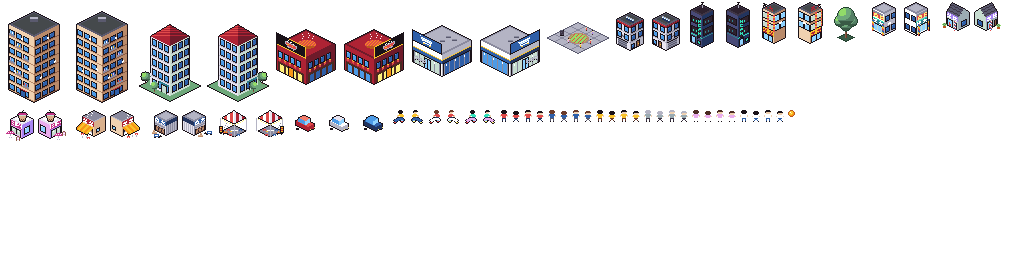
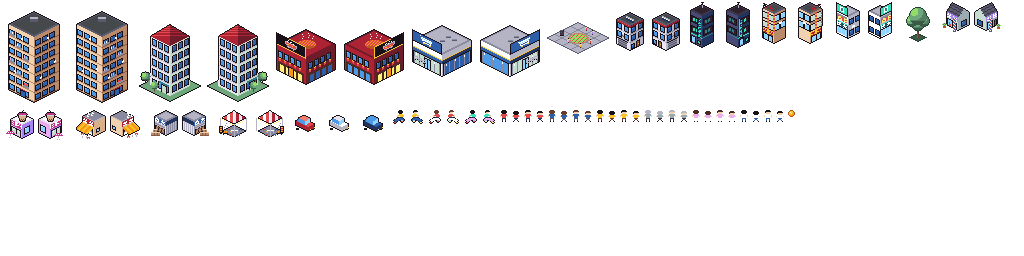
默认缩放改 ×3，店铺细节按真机可读性精简
- 默认档 ×2 → ×3（真机约 1.6pt / 美术像素，与参考相当）
- 去掉小于 3 像素的噪点道具，招牌加大加对比
- ART_SPEC 补最小可读尺寸规则

diff --git a/county-tycoon/assets/scripts/core/WorldConfig.ts b/county-tycoon/assets/scripts/core/WorldConfig.ts
@@ -44,7 +44,7 @@ export const DEFAULT_WORLD_CONFIG: WorldConfig = {
     gridWidth: 40,
     gridHeight: 40,
     zoomLevels: [2, 3, 4],
-    defaultZoomIndex: 0,
+    defaultZoomIndex: 1,
     palette: {
         background: '#2e222f',
         ground: '#547e64',

diff --git a/docs/art/gen/shops.py b/docs/art/gen/shops.py
@@ -138,7 +138,7 @@ def breakfast(F):
     gx, gy = ground_pt(b, F, 10, 4); put_grid(pv, gx, gy, STOOL, STOOL_MAP)
     # 蒸汽从雨棚上冒出来
     sx, sy = wall_pt(b, F, 5, 16)
-    for (dx, dy) in [(0, 0), (1, -2), (0, -3), (1, -5), (4, -1), (5, -3), (4, -4)]:
+    for (dx, dy) in [(0, 0), (1, 0), (0, -1), (1, -2), (2, -2), (1, -3), (0, -4), (1, -4), (4, -1), (5, -1), (4, -2), (5, -3), (6, -3), (5, -4)]:
         pv.put(int(sx) + dx, int(sy) + dy - 1, '纯白')
     finish(cv, 'breakfast', F, pv)
 
@@ -205,11 +205,9 @@ def parcel(F):
     b.rect_on(O, 0, 10, wlen(b, O), 4, '藏青')
     m = F == 'R'
     # 门口：包裹堆 + 电动三轮
-    gx, gy = ground_pt(b, F, 2, 3)
-    put_grid(pv, gx, gy, ['.tt..', '.dd..', 'ttttt', 'ddddd'], {'t': '肤色暗', 'd': '土黄'}, m)
-    gx, gy = ground_pt(b, F, 9, 5)
-    put_grid(pv, gx, gy, ['bbbbb...', 'bWWWb.K.', 'bbbbbKKK', 'KK..KK..'],
-             {'b': '钴蓝', 'W': '纯白', 'K': '近黑'}, m)
+    gx, gy = ground_pt(b, F, 5, 4)
+    put_grid(pv, gx, gy, ['..tttt....', '..dDdd....', '..dDdd....', 'ttttttttt.', 'dddDddDdd.', 'dddDddDdd.', 'DDDDDDDDD.'],
+             {'t': '肤色亮', 'd': '土黄', 'D': '深棕'}, m)
     finish(cv, 'parcel', F, pv)
 
 # ======================= 奶茶店（屋顶大杯子） =======================
@@ -234,8 +232,6 @@ def milk_tea(F):
     gx, gy = ground_pt(b, F, 3, 4)                       # 门口太阳伞小圆桌
     put_grid(pv, gx, gy, ['..PPPPP..', '.PwPwPwP.', 'PPPPPPPPP', '....g....', '....g....', '..wwwww..', '...g.g...'],
              {'P': '玫红', 'w': '纯白', 'g': '银灰'}, m)
-    gx, gy = ground_pt(b, F, 10, 3)                      # A 字菜单板
-    put_grid(pv, gx, gy, ['.KK.', 'KPPK', 'KwwK', 'KPPK', 'K..K'], {'K': '深棕', 'P': '浅粉', 'w': '纯白'}, m)
     finish(cv, 'milk-tea', F, pv)
 
 # ======================= 手机店（玻璃幕墙 + 红横幅 + 气球） =======================
@@ -248,21 +244,16 @@ def phone(F):
     b.rect_on(F, 0, 0, n, 9, '近黑'); b.rect_on(F, 1, 0, n - 2, 8, '天蓝')
     for u in range(1, n - 1, 4): b.rect_on(F, u, 0, 1, 8, '冷白')
     b.rect_on(F, 2, 0, n - 4, 2, '纯白')                # 展示柜台
-    b.rect_on(F, 0, 9, n, 5, '深青'); b.rect_on(F, 0, 13, n, 1, '青')
+    b.rect_on(F, 0, 9, n, 5, '墨青'); b.rect_on(F, 0, 13, n, 1, '青')
     glyphs(b, F, 1, 9, 2, '纯白', 47)
     b.rect_on(F, 1, 15, n - 2, 5, '亮红'); glyphs(b, F, 2, 15, 2, '柠檬黄', 52)   # 促销横幅
     b.rect_on(F, 1, 19, n - 2, 2, '浅灰')
     b.window(O, 2, 3, 3, 4, glass='钴蓝', shine='蓝'); b.window(O, 8, 3, 3, 4, glass='钴蓝', shine='蓝')
     b.window(O, 2, 14, 3, 4, glass='钴蓝', shine='蓝'); b.window(O, 8, 14, 3, 4, glass='钴蓝', shine='蓝')
     b.rect_on(O, 4, 9, 3, 2, '纯白')                     # 空调外机
-    # 门口两根气球柱
-    for u, d in ((1, 1), (n - 2, 1)):
-        gx, gy = ground_pt(b, F, u, d)
-        cols = ['亮红', '明黄', '钴蓝']
-        for k in range(6):
-            c = cols[k % 3]
-            pv.put(gx, gy - 1 - k * 2, c); cv.put(gx + 1, gy - 1 - k * 2, c)
-            pv.put(gx, gy - 2 - k * 2, c); cv.put(gx + 1, gy - 2 - k * 2, cols[(k + 1) % 3])
+    # 屋顶前沿一块大青色灯箱，中间白色手机轮廓
+    b.rect_on(F, 0, H, n, 9, '近黑'); b.rect_on(F, 1, H + 1, n - 2, 7, '青')
+    icon(b, F, (n - 4) // 2, H + 2, ['KKKK', 'KwwK', 'KwwK', 'KwwK', 'KKKK'], {'K': '纯白', 'w': '深青'})
     finish(cv, 'phone-shop', F, pv)
 
 # ======================= 理发店（灰瓦坡顶老房子） =======================
@@ -302,10 +293,11 @@ def barber(F):
     b.rect_on(F, 0, 9, n, 5, '紫'); glyphs(b, F, 1, 9, 2, '纯白', 61)
     b.window(O, 4, 3, 4, 4, glass='钴蓝', shine='蓝')
     m = F == 'R'
-    gx, gy = ground_pt(b, F, n - 2 if F == 'L' else 1, 2)   # 转灯：门面靠前角那头
-    for k in range(10):
-        pv.put(gx, gy - 1 - k, ['亮红', '纯白', '钴蓝'][k % 3]); pv.put(gx + 1, gy - 1 - k, ['纯白', '钴蓝', '亮红'][k % 3])
-    pv.put(gx, gy - 11, '银灰'); pv.put(gx + 1, gy - 11, '银灰')
+    gx, gy = ground_pt(b, F, n - 2 if F == 'L' else 1, 2)   # 转灯：3 宽 13 高
+    for k in range(13):
+        for i in range(3):
+            pv.put(gx - 1 + i, gy - 1 - k, ['亮红', '纯白', '钴蓝'][(k + i) % 3])
+    for i in range(3): pv.put(gx - 1 + i, gy - 14, '银灰'); pv.put(gx - 1 + i, gy, '中灰')
     gx, gy = ground_pt(b, F, 1 if F == 'L' else n - 3, 3)   # 盆栽
     put_grid(pv, gx, gy, ['.lgl.', 'lglgl', '.lgl.', '.ddd.', '.ddd.'], {'l': '亮绿', 'g': '地面绿', 'd': '赭橙'}, m)
     finish(cv, 'barber', F, pv)
@@ -325,7 +317,7 @@ def net_cafe(F):
         for w in (F, O):
             L_ = wlen(b, w)
             b.rect_on(w, 1, v, L_ - 2, 7, '近黑'); b.rect_on(w, 2, v + 1, L_ - 4, 5, '背景紫黑')
-            for u in range(3, L_ - 3, 3): b.rect_on(w, u, v + 2, 1, 2, '青' if w == F else '深青')
+            for u in range(3, L_ - 3, 3): b.rect_on(w, u, v + 2, 2, 3, '青' if w == F else '深青')
     b.rect_on(F, 0, 9, n, 1, '青'); b.rect_on(O, 0, 9, wlen(b, O), 1, '深青')
     # 竖招牌：在门面墙靠前角那一头，往外伸 4 像素
     u = n - 1 if F == 'L' else 0
@@ -333,9 +325,9 @@ def net_cafe(F):
     for v in range(12, 31):
         for k in range(1, 5):
             x, y = wall_pt(b, F, u + .5, v)
-            cv.put(int(x + ox * k), int(round(y + oy * k)), '近黑' if v in (12, 30) or k == 4 else '背景紫黑')
+            cv.put(int(x + ox * k), int(round(y + oy * k)), '近黑' if v in (12, 30) or k == 4 else '青')
     x, y = wall_pt(b, F, u + .5, 29)
-    vglyphs(cv, [(int(x + ox * 2.5) - 1, int(round(y + oy * 2.5)) + 4 * i) for i in range(4)], '青', 71)
+    vglyphs(cv, [(int(x + ox * 2.5) - 1, int(round(y + oy * 2.5)) + 4 * i) for i in range(4)], '藏青', 71)
     # 屋顶：天线 + 空调
     T_ = b.roof_pts()[0]
     for z in range(6): cv.put(int(T_[0]), int(T_[1]) + 3 - z, '银灰')

diff --git a/docs/DECISIONS.md b/docs/DECISIONS.md
@@ -84,7 +84,7 @@
 ## D014 改为等距视角，画面对标同类像素经营游戏（2026-11-13，用户拍板）
 - 起因：用户放了 6 张同类游戏截图到 `reference/`，要求"至少做出类似的东西"。正俯视 16×16 在规格上就到不了那种密度——只看得到屋顶，招牌、门窗、楼层都没地方画。
 - 视角：等距 2:1，菱形地块 32×16。格子坐标 gx 往右下、gy 往左下，(0,0) 是地图最上角。换算全在 `core/IsoMath.ts`，纯函数。
-- 地图 40×40（等距地图的外接矩形永远 2:1，竖屏下 24×40 会上下露底；40×40 在 ×2 时 2560×1280，能上下左右拖）。默认 ×2。
+- 地图 40×40（等距地图的外接矩形永远 2:1，竖屏下 24×40 会上下露底；40×40 在 ×2 时 2560×1280，能上下左右拖）。默认 ×3（2026-11-13 从 ×2 改：换算到真机，×2 时一个美术像素约 1.1pt，比参考游戏的 1.3pt 小，店铺看不清；×3 约 1.6pt）。
 - 建筑图：宽 = (w+h)×16，高随意；图的底边中点对齐占地菱形的最下顶点。宽度不对时代码回退色块并警告。
 - 前后遮挡：每次重画按占地中心的 gx+gy 排序（`IsoMath.depth`）。对互不重叠的 1×1/2×2 混排正确；以后有 3×1 之类的长条再换拓扑排序。
 - 马路不当"建筑"画，进地面层，按四邻自动选 16 种拼接图之一（`buildings.json` 里 `"flat": true`）。地面草地和马路在同一张图集 `ground.png`，1600 格合批成一次绘制。

diff --git a/docs/DEVLOG.md b/docs/DEVLOG.md
@@ -115,4 +115,6 @@
   - 每家一个原型：早餐铺单层敞开 + 斜雨棚 + 塑料凳；烧烤摊条纹帐篷大排档；快递驿站铁皮房半拉卷帘 + 三轮车；奶茶店屋顶立体大杯；手机店玻璃幕墙 + 红横幅 + 气球柱；理发店灰瓦坡顶 + 转灯；网吧三层深色玻璃 + 竖招牌；补习班三层民房 + 红竖幅 + 屋顶铁架字。
   - 两轮修正：道具描黑边成一团黑 → 道具单独一层不描边；3×4 伪字读成 "BAB" → 改 4×4 方块字每块 2 个；`_r` 版远端道具被图边裁掉 → 挪进来。
   - 实测：同一张小县城截图 `docs/art/preview-iso-shops.png`，图集仍是 1024×256，绘制次数不变。
+- **看不清的问题**（用户反馈）：换算到真机后，默认 ×2 时一个美术像素约 1.1pt，比参考游戏小约四分之一。默认档改 ×3。再按真机分辨率截图（CDP 模拟 3 倍像素密度）逐家看：手机店气球、快递三轮车、1 像素转灯是噪点，网吧竖招牌深底深字。改为：手机店屋顶大青色灯箱带手机图标；快递只留一大堆纸箱；转灯 3 宽 13 高；网吧竖招牌亮青底深字、屏幕光加大；奶茶店去掉菜单板；早餐铺蒸汽成团。截图 `docs/art/preview-phone-x3.png`。
+- 测试脚本以后用真机分辨率截图做验收，不再看放大局部。
 

diff --git a/docs/ART_SPEC.md b/docs/ART_SPEC.md
@@ -38,6 +38,8 @@
 2. **门面结构**：整面玻璃 / 卷帘半拉 / 全敞开 / 民房改的。
 3. **门口道具**：塑料凳折叠桌、太阳伞、包裹堆、三轮车、转灯、盆栽、气球柱、落地灯箱。
 
+**最小可读尺寸**：默认 ×3、真机上一个美术像素约 1.6pt。小于 3 像素的细节（细气球、小三轮、1 像素宽的柱子）在手机上就是噪点，宁可少画几样、每样画大。检查时用真机分辨率截图（3 倍像素密度、430pt 宽），不要看放大后的局部。
+
 门口小道具画在单独一层、**不描黑边**（几像素的东西描边会糊成一团黑），最后盖到建筑上。
 招牌字用 4×4 的"伪汉字"方块，12 宽门面放 2 个；3×4 的会读成英文字母。
 
